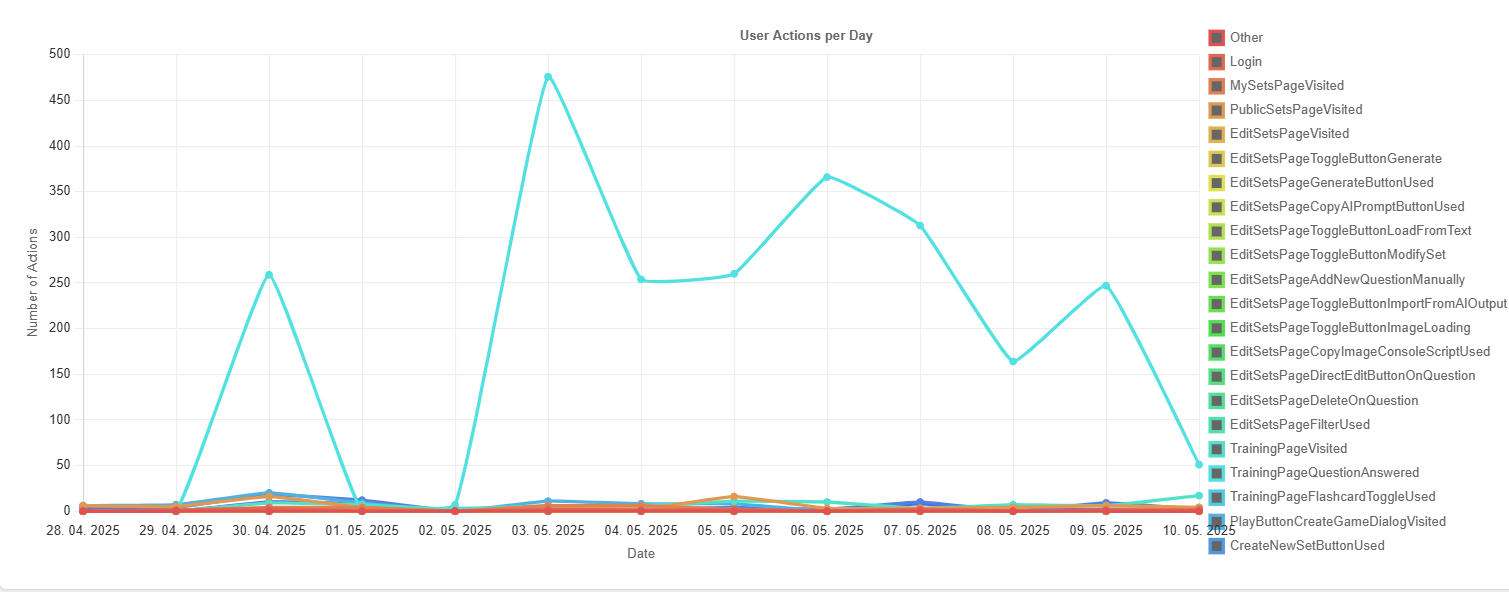
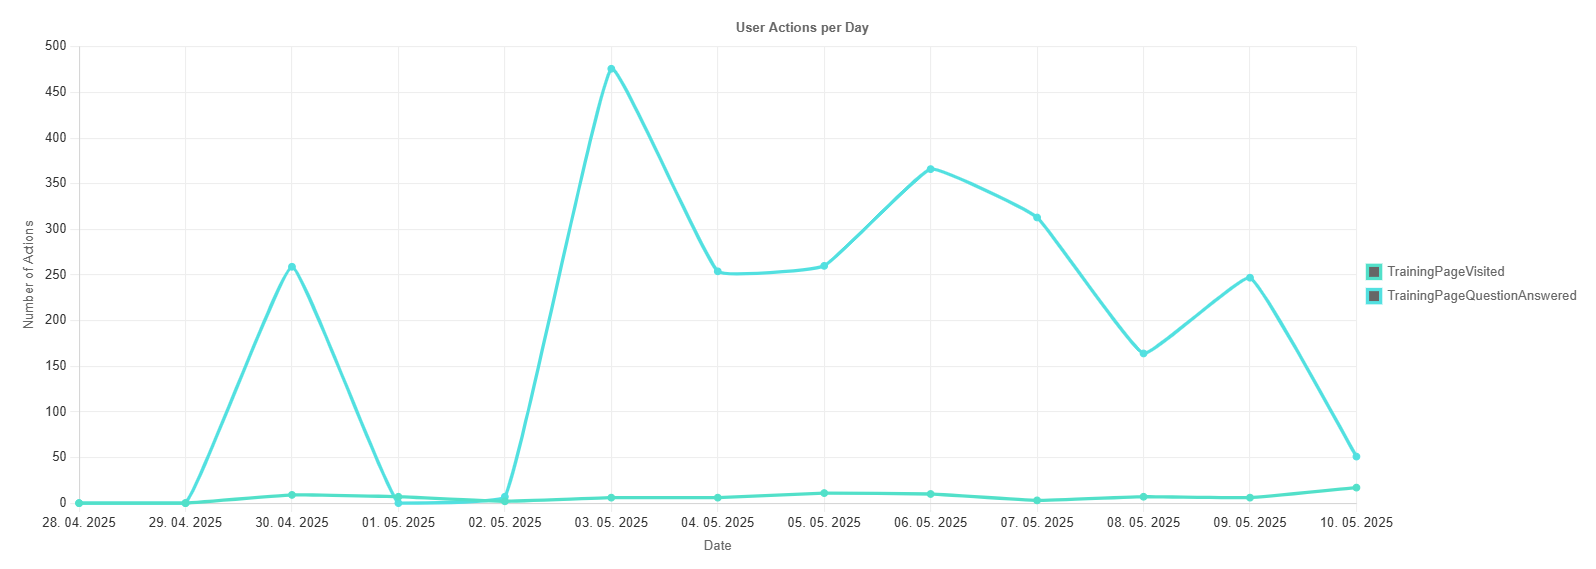
Improve traction image and README.md press release

diff --git a/README.md b/README.md
@@ -1,4 +1,7 @@
+## Traction
 ![Traction Image](traction.png)
+
+## Press release
 
 PRAGUE, March 17, 2025 – Today, at the Faculty of Mathematics and Physics, Charles University, the launch of PearPacker, an innovative platform designed to revolutionize how companies connect with top student talent, was announced. By leveraging cutting-edge AI technologies, PearPacker offers businesses a powerful tool to efficiently identify and engage with ideal candidates, while also providing students with valuable resources to enhance their learning and professional development.
 
